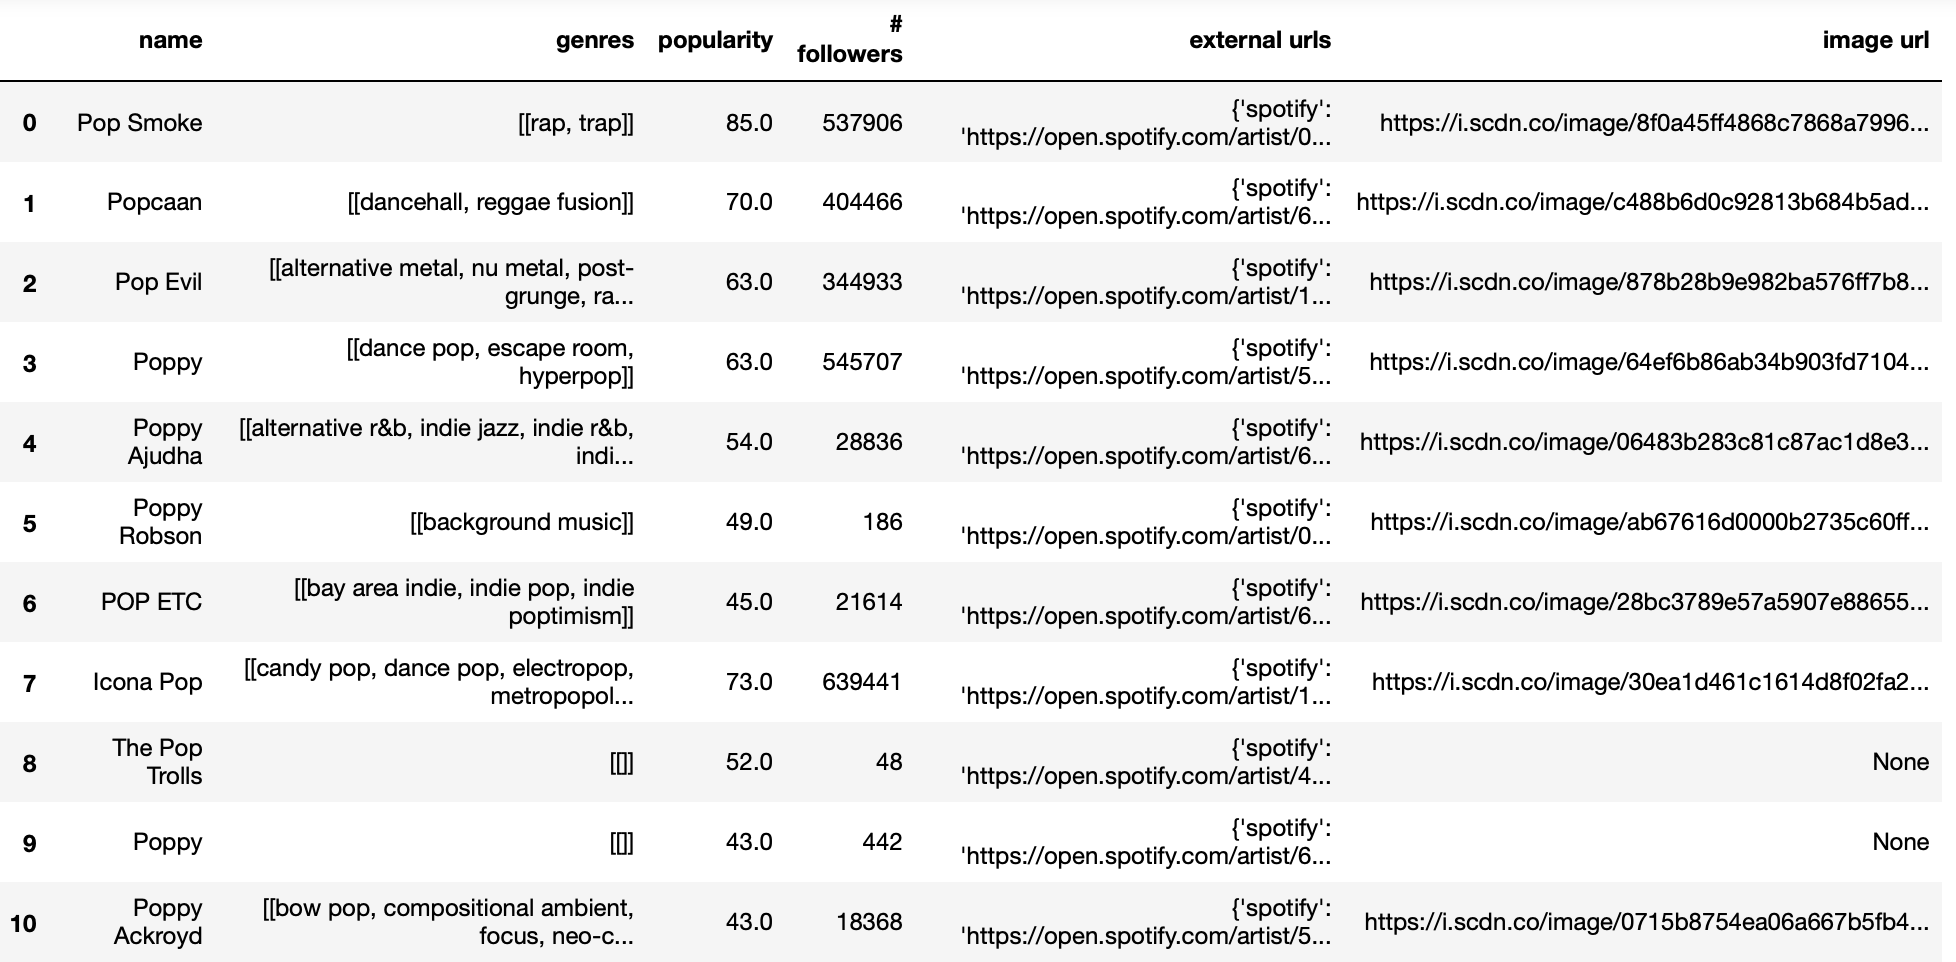
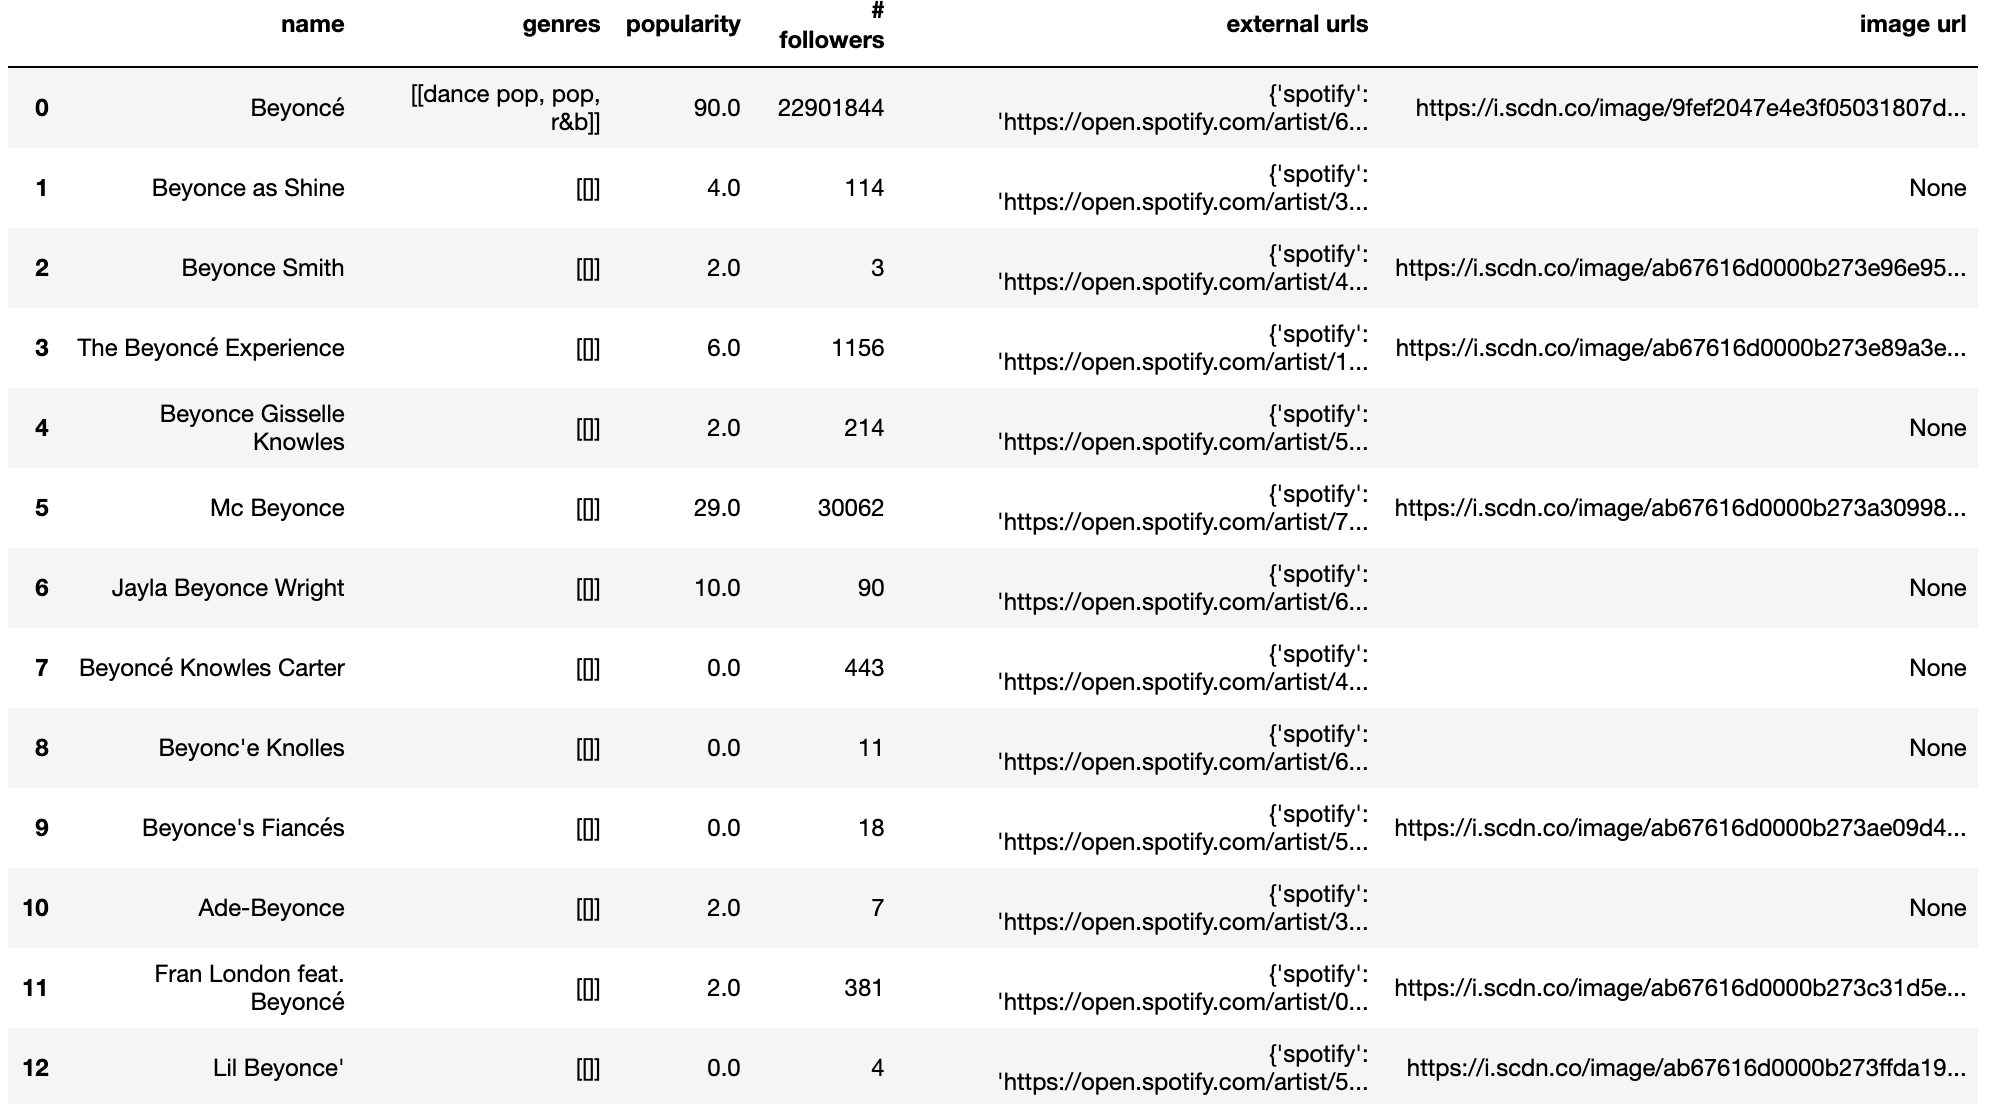
docs(data_connector): documentation update
Updated to include pagination and other sections

diff --git a/docs/source/DC_Spotify_tut.rst b/docs/source/DC_Spotify_tut.rst
@@ -75,7 +75,7 @@ Open apps.js with your favourite editor. In the file, it contains a section for 
    	:width: 650
    	:height: 100
 
-The client ID and client Secret can be found in the dashboard app the user generated. The client ID is a public information for applications. The client secret must be kept confidential, it is used to verify that your request made with the client ID are authorized.
+The client ID and client secret can be found in the dashboard app the user generated. The client ID is a public information for applications. The client secret must be kept confidential, it is used to verify that your request made with the client ID are authorized.
 
 .. image:: _static/images/tutorial/ID_and_secret.png
 	:align: center
@@ -106,36 +106,57 @@ Open a browser and visit the project home page again. Now that the server is run
 
 When you click on the log in link, it will send you back to your redirect URI. You should see your Spotify account information as well as your access token and refresh token.
 
-.. image:: _static/images/tutorial/SFU_spotify.png
+.. image:: _static/images/tutorial/SFU_Spotify.png
 	:align: center
    	:width: 800
    	:height: 400
 
 Download and store the configuration files in dataprep
 ======================================================
-
-The configuration files are used to configure the parameters and initial setup for the API. The available configuration files can be manually downloaded here: `Configuration Files
+The configuration files are used to construct the parameters and initial setup for the API. The available configuration files can be manually downloaded here: `Configuration Files
 <https://github.com/sfu-db/DataConnectorConfigs>`_ or automatically downloaded at usage. 
 
-Store the configuration file in the dataprep folder. 
+
+
+To automatically download at usage, click on the clipboard button, unsure you are cloning with HTTPS. Go into your terminal, and find an appropriate locate to store the configuration files. 
+When you decided on a location, enter the command ``git clone https://github.com/sfu-db/DataConnectorConfigs.git``. This will clone the git repository to the desired location; as a suggestion store it with the dataprep folder. 
+
+
+From here you can proceed with the next steps.
+
+.. image:: _static/images/tutorial/dc_git.png
+	:align: center
+   	:width: 1000
+   	:height: 500
+
+
+.. image:: _static/images/tutorial/dc_git_clone.png
+	:align: center
+   	:width: 725
+   	:height: 125
+
+
+Below the configuration file are stored with dataprep. 
 
 .. image:: _static/images/tutorial/Config_destination.png
 	:align: center
-   	:width: 500
-   	:height: 120
+   	:width: 586
+   	:height: 132
+
+
     
 Initialize data_connector
 =============================
-To initialize the data_connector, run the following code below. Copy and paste the Spotify **access_token**, **client_id**, and **client_secret** in the appropriate variables. Once you have that running, you can use some of the built in functions available in connector.
+To initialize the data_connector, run the following code below. Copy and paste your Spotify **access_token**, **client_id**, and **client_secret** in the appropriate variables. Once you have that running, you can use some of the built in functions available in connector.
 
 ::
 
     from dataprep.data_connector import Connector
     client_id = “insert_client_id”
     client_secret = “insert_client_secret”
-    access_token = ““insert_token_key”
-    dc = Connector("./DataConnectorConfigs/spotify", auth_params={"client_id":client_id, 
-                                                           "client_secret":access_token, 
+    access_token = “insert_token_key”
+    dc = Connector("./DataConnectorConfigs/spotify", _auth={"client_id":client_id, 
+                                                           "client_secret":client_secret, 
                                                            "access_token":access_token})
     
 Functionalities
@@ -145,7 +166,7 @@ Data connector has several functions you can perform to gain insight on the data
 Connector.info
 ------------------
 | The info method gives information and guidelines on using the connector. There are 3 sections in the response and they are table, parameters and examples.
-
+|
 | 	a. Table - The table(s) being accessed.
 | 	b. Parameters - Identifies which parameters can be used to call the method. 
 | 	c. Examples - Shows how you can call the methods in the Connector class.
@@ -156,8 +177,21 @@ Connector.info
 
 .. image:: _static/images/tutorial/dc_spotify_info.png
 	:align: center
-   	:width: 385
-   	:height: 540
+   	:width: 285
+   	:height: 405
+
+Parameters
+**********************
+| A parameter is a piece of information you supply to a query right as you run it. The parameters for Yelp's business query can either be required or optional. The required parameter is **q** while the optional parameters are **limit** and **offset**. The parameters are described below.
+|
+| 	a. **q** - Required - Search term, for example "Beyonce". 
+| 	b. **limit** - Optional -  It is the maximum number of results to return. By default, it will return 20. Maximum is 50.
+| 	c. **offset** - Optional - Offset allows you to specify the ranking number of the first item on the page. By default, it will return 0. Maximum is 2,000.
+
+There are additional parameters to query with Spotify. If you are interested in reading up the other available parameters and setting up your own config files, please read this `Spotify link
+<https://developer.spotify.com/documentation/web-api/reference/search/search/>`_ and this `Configuration Files link
+<https://github.com/sfu-db/DataConnectorConfigs>`_.
+
 
 Connector.show_schema
 ---------------------------
@@ -179,11 +213,11 @@ The query method downloads the website data and displays it in a Dataframe. The 
 
 When the data is received from the server, it will either be in a JSON or XML format. The data_connector reformats the data in pandas Dataframe for the convenience of downstream operations.
 
-As an example, let's try to get the data from the "artist" table, providing the query search for "pop".
+As an example, let's try to get the data from the "artist" table, providing the query search for the artist "beyonce".
 
 ::
 
-    dc.query("artist", q="pop")
+    dc.query("artist", q="beyonce")
     
 .. image:: _static/images/tutorial/dc_spotify_query.png
 	:align: center
@@ -197,6 +231,25 @@ Now that you have an understanding of how data connector operates, you can easil
 
     dc = Connector(...)
     dc.query(...)
+
+
+Pagination
+===================
+| Another feature available in the config files is pagination. Pagination is the process of dividing a document into discrete pages, breaking the content into pages and allow visitors to switch between them. It returns the maximum number of searches to return. 
+|  
+| To use pagination, you need to include **_count** in your query.
+
+::
+
+    dc.query("artist", q="twice", _count=200)
+
+.. image:: _static/images/tutorial/dc_spotify_query_pag.png
+	:align: center
+   	:width: 1000
+   	:height: 490
+    
+Pagination does not concurrently work with the **limit** parameter in a query, you need to select either **limit** or **_count**. If you select **_count**, it bypasses the initial restriction set by Spotify's **limit** parameter.  
+
     
 That's all for now.
 ===================

diff --git a/docs/source/DC_DBLP_tut.rst b/docs/source/DC_DBLP_tut.rst
@@ -26,7 +26,27 @@ Download and store the configuration files in dataprep
 The configuration files are used to construct the parameters and initial setup for the API. The available configuration files can be manually downloaded here: `Configuration Files
 <https://github.com/sfu-db/DataConnectorConfigs>`_ or automatically downloaded at usage. 
 
-Store the configuration file in the dataprep folder. 
+
+
+To automatically download at usage, click on the clipboard button, unsure you are cloning with HTTPS. Go into your terminal, and find an appropriate locate to store the configuration files. 
+When you decided on a location, enter the command ``git clone https://github.com/sfu-db/DataConnectorConfigs.git``. This will clone the git repository to the desired location; as a suggestion store it with the dataprep folder. 
+
+
+From here you can proceed with the next steps.
+
+.. image:: _static/images/tutorial/dc_git.png
+	:align: center
+   	:width: 1000
+   	:height: 500
+
+
+.. image:: _static/images/tutorial/dc_git_clone.png
+	:align: center
+   	:width: 725
+   	:height: 125
+
+
+Below the configuration file are stored with dataprep. 
 
 .. image:: _static/images/tutorial/Config_destination.png
 	:align: center
@@ -38,8 +58,6 @@ Store the configuration file in the dataprep folder.
 Initialize data_connector
 =============================
 To initialize, run the following code. 
-
-* Unlike Yelp and Spotify, tokens and client information are not needed.
 
 ::
 
@@ -53,9 +71,11 @@ Data connector has several functions you can perform to gain insight on the data
 Connector.info
 ------------------
 | The info method gives information and guidelines on using the connector. There are 3 sections in the response and they are table, parameters and examples.
+|
 | 	a. Table - The table(s) being accessed.
-| 	b. Parameters - Identifies which parameters can be used to call the method. For DBLP, there is no required **parameter**. 
+| 	b. Parameters - Identifies which parameters can be used to call the method. For DBLP, there is no required **parameter**.
 | 	c. Examples - Shows how you can call the methods in the Connector class.
+
 
 ::
 
@@ -63,8 +83,21 @@ Connector.info
     
 .. image:: _static/images/tutorial/dc_dblp_info.png
 	:align: center
-   	:width: 260
-   	:height: 175
+   	:width: 300
+   	:height: 200
+
+Parameters
+**********************
+| A parameter is a piece of information you supply to a query right as you run it. The parameters for DBLP are **q**, **h**, and **f**, and they are described below.
+|
+| 	a. **q** - Optional - The query string to search for find author profiles, conferences, journals, or individual publications in the database.
+| 	b. **h** - Optional - Maximum number of search results (hits) to return. 
+| 	c. **f** - Optional - The first hit in the numbered sequence of search results (starting with 0) to return. In combination with the h parameter, this parameter can be used for pagination of search results.
+
+There are additional parameters to query with DBLP. If you are interested in reading up the other available parameters and setting up your own config files, please read this `DBLP link
+<https://dblp.uni-trier.de/faq/13501473>`_ and this `Configuration Files link
+<https://github.com/sfu-db/DataConnectorConfigs>`_.
+
 
 Connector.show_schema
 --------------------------
@@ -77,8 +110,8 @@ As an example, lets see what is in the publication table.
 
 .. image:: _static/images/tutorial/dc_dblp_show_schema.png
 	:align: center
-   	:width: 267
-   	:height: 303
+   	:width: 212
+   	:height: 295
     
 Connector.query
 ------------------
@@ -104,6 +137,38 @@ Now that you have an understanding of how data connector operates, you can easil
 
     dc = Connector(...)
     dc.query(...)
+
+Pagination
+===================
+| Another feature available in the config files is pagination. Pagination is the process of dividing a document into discrete pages, breaking the content into pages and allow visitors to switch between them. It returns the maximum number of searches to return. 
+| 
+| To use pagination, you need to include **_count** in your query.
+
+::
+
+    dc.query("publication", q = "lee", _count = 200)
+
+.. image:: _static/images/tutorial/dc_dblp_pagination.png
+	:align: center
+   	:width: 1000
+   	:height: 500
+    
+Pagination does not concurrently work with the **h** parameter in a query, you need to select either **h** or **_count**.
+
+All publications of one specific author 
+=========================================================
+| In the query, **q** is a generic search parameter that find author profiles, conferences, journals, or individual publications in the database. As a parameter, **q** is not great when trying to find specific authors and their work. To solve for this issue, you can query the authors first and last name. 
+| 
+| To fetch all publications of one specific author, you need to include **first_name="______"**, **last_name="______"** in your query.
+
+::
+
+    dc.query("publication", first_name = "Jeff", last_name = "Hawkins")
+
+.. image:: _static/images/tutorial/dc_dblp_author.png
+	:align: center
+   	:width: 1000
+   	:height: 500
     
 That's all for now.
 ===================

diff --git a/docs/source/DC_Yelp_tut.rst b/docs/source/DC_Yelp_tut.rst
@@ -48,12 +48,34 @@ Download and store the configuration files in dataprep
 The configuration files are used to construct the parameters and initial setup for the API. The available configuration files can be manually downloaded here: `Configuration Files
 <https://github.com/sfu-db/DataConnectorConfigs>`_ or automatically downloaded at usage. 
 
-Store the configuration file in the dataprep folder. 
+
+
+To automatically download at usage, click on the clipboard button, unsure you are cloning with HTTPS. Go into your terminal, and find an appropriate locate to store the configuration files. 
+When you decided on a location, enter the command ``git clone https://github.com/sfu-db/DataConnectorConfigs.git``. This will clone the git repository to the desired location; as a suggestion store it with the dataprep folder. 
+
+
+From here you can proceed with the next steps.
+
+.. image:: _static/images/tutorial/dc_git.png
+	:align: center
+   	:width: 1000
+   	:height: 500
+
+
+.. image:: _static/images/tutorial/dc_git_clone.png
+	:align: center
+   	:width: 725
+   	:height: 125
+
+
+Below the configuration file are stored with dataprep. 
 
 .. image:: _static/images/tutorial/Config_destination.png
 	:align: center
    	:width: 586
    	:height: 132
+
+
     
 Initialize data_connector
 =============================
@@ -63,7 +85,7 @@ To initialize run the following code. Copy and paste the Yelp API key into the *
 
     from dataprep.data_connector import Connector
     access_token = “insert_token_key”
-    dc = Connector("./DataConnectorConfigs/yelp", auth_params={"access_token":access_token})
+    dc = Connector("./DataConnectorConfigs/yelp", _auth={"access_token":access_token})
     
 Functionalities
 ===================
@@ -72,7 +94,7 @@ Data connector has several functions you can perform to gain insight on the data
 Connector.info
 ------------------
 | The info method gives information and guidelines on using the connector. There are 3 sections in the response and they are table, parameters and examples.
-
+|
 | 	a. Table - The table(s) being accessed.
 | 	b. Parameters - Identifies which parameters can be used to call the method. 
 | 	c. Examples - Shows how you can call the methods in the Connector class.
@@ -85,6 +107,20 @@ Connector.info
 	:align: center
    	:width: 400
    	:height: 165
+
+Parameters
+**********************
+| A parameter is a piece of information you supply to a query right as you run it. The parameters for Yelp's business query can either be required or optional. The required parameters are **term** and **location** while the optional parameters are **latitude**, **longitude** and **limit**. The parameters are described below.
+|
+| 	a. **term** - Required - Search term, for example "food" or "restaurants". The term may also be business names, such as "Starbucks". 
+| 	b. **location** - Required - Maximum number of search results (hits) to return. 
+| 	c. **latitude** - Optional - Latitude of the location you want to search nearby.
+| 	d. **longitude** - Optional - Longitude of the location you want to search nearby.
+| 	e. **limit** - Number of business results to return. By default, it will return 20. Maximum is 50.
+
+There are additional parameters to query with Yelp. If you are interested in reading up the other available parameters and setting up your own config files, please read this `Yelp link
+<https://www.yelp.ca/developers/documentation/v3/business_search3>`_ and this `Configuration Files link
+<https://github.com/sfu-db/DataConnectorConfigs>`_.
 
 Connector.show_schema
 -----------------------------
@@ -110,9 +146,9 @@ As an example, let's try to get the data from the "business" table, providing th
 
 ::
 
-    dc.query("businesses", term="city", location="seattle")
+    dc.query("businesses", term = "city", location = "seattle", limit = 10)
     
-.. image:: _static/images/tutorial/dc_query.png
+.. image:: _static/images/tutorial/dc_yelp_query.png
 	:align: center
    	:width: 1000
    	:height: 460
@@ -124,7 +160,25 @@ Now that you have an understanding of how data connector operates, you can easil
 
     dc = Connector(...)
     dc.query(...)
+
+Pagination
+===================
+| Another feature available in the config files is pagination. Pagination is the process of dividing a document into discrete pages, breaking the content into pages and allow visitors to switch between them. It returns the maximum number of searches to return. 
+| 
+| To use pagination, you need to include **_count** in your query.
+
+::
+
+    dc.query("business", term = "city", location = "seattle",  _count = 200)
+
+.. image:: _static/images/tutorial/dc_yelp_query_pag.png
+	:align: center
+   	:width: 1000
+   	:height: 500
     
+Pagination does not concurrently work with the **limit** parameter in a query, you need to select either **limit** or **_count**. If you select **_count**, it bypasses the initial restriction set by Yelp's **limit** parameter.  
+
+
 That's all for now.
 ===================
 Please visit the other tutorials that are available if you are interested in setting up a different data connector. 
